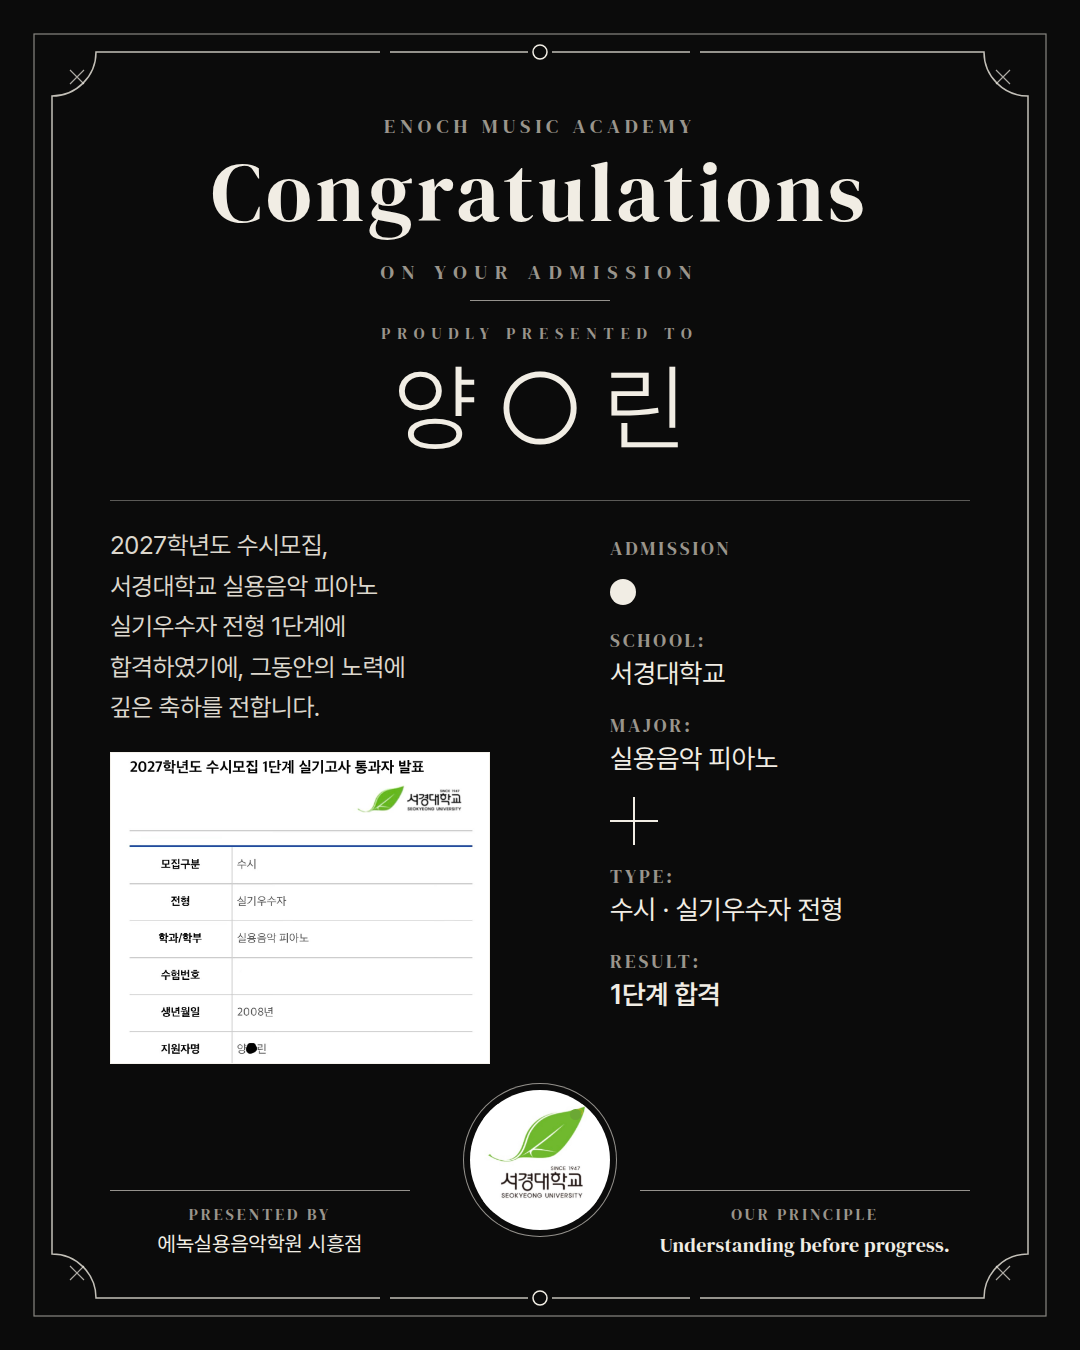
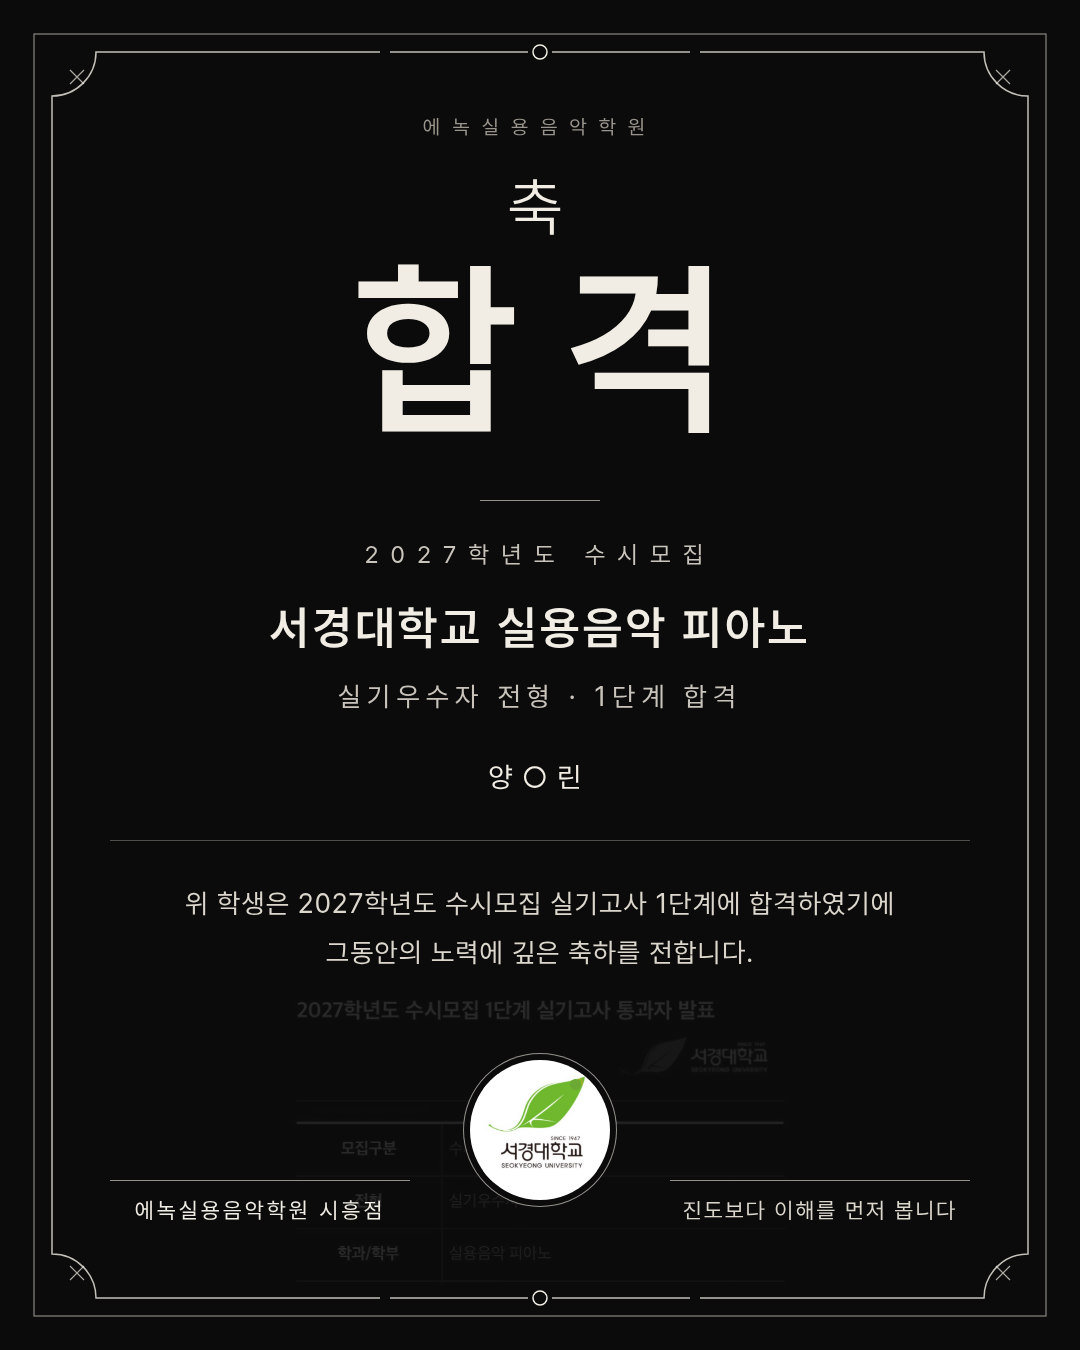
합격 포스터: 한글만, 축 합격, 이름 작게, 캡처는 로고 뒤에 희미하게
Claude-Session: https://claude.ai/code/session_01HGbZvgMeYrbU7mY8bwfjyb

diff --git a/output/합격_서경대_피아노/poster.html b/output/합격_서경대_피아노/poster.html
@@ -10,6 +10,8 @@
 .cap{font-family:DS,serif;letter-spacing:5px;font-size:20px;color:var(--g)}
 .lb{font-family:DS,serif;font-size:19px;letter-spacing:3px;color:var(--g)}
 .vv{font-size:27px;font-weight:400;margin:4px 0 22px;letter-spacing:-.3px}
+.wm{position:absolute;left:190px;top:330px;width:700px;filter:grayscale(1) invert(1);mix-blend-mode:screen;opacity:.1}
+.sm{font-size:20px;letter-spacing:6px;color:var(--g)}
 </style></head><body>
 <section class="s" id="feed" style="width:1080px;height:1350px">
 <svg class="a" style="left:0;top:0" width="1080" height="1350" viewBox="0 0 1080 1350" fill="none">
@@ -23,30 +25,21 @@
 <path d="M70 70 l14 14 m-14 0 l14 -14"/><path d="M996 70 l14 14 m-14 0 l14 -14"/><path d="M70 1266 l14 14 m-14 0 l14 -14"/><path d="M996 1266 l14 14 m-14 0 l14 -14"/>
 </g>
 </svg>
-<div class="a c cap" style="top:112px">ENOCH MUSIC ACADEMY</div>
-<div class="a c" style="top:150px;font-family:DS,serif;font-size:84px;letter-spacing:4px;line-height:1">Congratulations</div>
-<div class="a c cap" style="top:258px;letter-spacing:8px">ON YOUR ADMISSION</div>
-<div class="a" style="left:470px;width:140px;top:300px;height:1px;background:rgba(241,237,228,.6)"></div>
-<div class="a c cap" style="top:322px;font-size:16px;letter-spacing:7px">PROUDLY PRESENTED TO</div>
-<div class="a c" style="top:360px;font-weight:300;font-size:96px;letter-spacing:22px;padding-left:22px;line-height:1">양○린</div>
-<div class="a" style="left:110px;right:110px;top:500px;height:1px;background:rgba(241,237,228,.35)"></div>
-<div class="a" style="left:110px;width:430px;top:525px;font-size:25px;line-height:1.62;color:#DCD7CD;letter-spacing:-.3px">2027학년도 수시모집,<br>서경대학교 실용음악 피아노<br>실기우수자 전형 1단계에<br>합격하였기에, 그동안의 노력에<br>깊은 축하를 전합니다.</div>
-<div class="a" style="left:110px;top:752px;width:380px;height:312px;overflow:hidden;background:#fff;border:1px solid rgba(241,237,228,.7)">
-<img src="src/발표화면_가림.jpg" style="position:absolute;left:0;top:-46px;width:380px">
-</div>
-<div class="a" style="left:610px;right:110px;top:535px">
-<div class="lb">ADMISSION</div>
-<div style="width:26px;height:26px;border-radius:50%;background:#F1EDE4;margin:18px 0 22px"></div>
-<div class="lb">SCHOOL:</div><div class="vv">서경대학교</div>
-<div class="lb">MAJOR:</div><div class="vv">실용음악 피아노</div>
-<div style="width:48px;height:48px;position:relative;margin:2px 0 18px"><div style="position:absolute;left:23px;top:0;width:1.5px;height:48px;background:#F1EDE4"></div><div style="position:absolute;left:0;top:23px;width:48px;height:1.5px;background:#F1EDE4"></div></div>
-<div class="lb">TYPE:</div><div class="vv">수시 · 실기우수자 전형</div>
-<div class="lb">RESULT:</div><div class="vv" style="font-weight:600">1단계 합격</div>
-</div>
-<div class="a" style="left:470px;top:1090px;width:140px;height:140px;border-radius:50%;background:#fff;overflow:hidden;box-shadow:0 0 0 6px #0B0B0B,0 0 0 7px rgba(241,237,228,.6)">
+<div class="a" style="left:270px;top:985px;width:540px;height:300px;overflow:hidden;mix-blend-mode:screen;opacity:.12"><img src="src/발표화면_가림.jpg" style="position:absolute;left:0;top:-60px;width:540px;filter:grayscale(1) invert(1)"></div>
+<div class="a c sm" style="top:115px;letter-spacing:12px">에녹실용음악학원</div>
+<div class="a c" style="top:175px;font-weight:300;font-size:64px;letter-spacing:10px;line-height:1">축</div>
+<div class="a c" style="top:255px;font-weight:600;font-size:190px;letter-spacing:46px;padding-left:46px;line-height:1">합격</div>
+<div class="a" style="left:480px;width:120px;top:500px;height:1px;background:rgba(241,237,228,.6)"></div>
+<div class="a c sm" style="top:540px;font-size:24px;letter-spacing:12px;color:#C9C4BB">2027학년도 수시모집</div>
+<div class="a c" style="top:600px;font-size:46px;font-weight:600;letter-spacing:3px">서경대학교 실용음악 피아노</div>
+<div class="a c" style="top:680px;font-size:27px;letter-spacing:6px;color:#C9C4BB">실기우수자 전형 · 1단계 합격</div>
+<div class="a c" style="top:760px;font-size:28px;letter-spacing:10px">양○린</div>
+<div class="a" style="left:110px;right:110px;top:840px;height:1px;background:rgba(241,237,228,.3)"></div>
+<div class="a c" style="top:880px;font-size:27px;line-height:1.8;color:#DCD7CD;letter-spacing:1px">위 학생은 2027학년도 수시모집 실기고사 1단계에 합격하였기에<br>그동안의 노력에 깊은 축하를 전합니다.</div>
+<div class="a" style="left:470px;top:1060px;width:140px;height:140px;border-radius:50%;background:#fff;overflow:hidden;box-shadow:0 0 0 6px #0B0B0B,0 0 0 7px rgba(241,237,228,.6)">
 <img src="src/서경대_로고.jpg" style="position:absolute;left:13px;top:14px;width:114px">
 <div style="position:absolute;left:100px;top:19px;width:11px;height:11px;border-radius:50%;background:#6BA834"></div>
 </div>
-<div class="a" style="left:110px;width:300px;top:1190px;border-top:1px solid rgba(241,237,228,.6);padding-top:12px;text-align:center"><div class="lb" style="font-size:16px">PRESENTED BY</div><div style="font-size:21px;margin-top:6px">에녹실용음악학원 시흥점</div></div>
-<div class="a" style="right:110px;width:330px;top:1190px;border-top:1px solid rgba(241,237,228,.6);padding-top:12px;text-align:center"><div class="lb" style="font-size:16px">OUR PRINCIPLE</div><div style="font-family:DS,serif;font-size:20px;margin-top:6px;letter-spacing:.3px;white-space:nowrap">Understanding before progress.</div></div>
+<div class="a" style="left:110px;width:300px;top:1180px;border-top:1px solid rgba(241,237,228,.6);padding-top:16px;text-align:center;font-size:22px;letter-spacing:3px">에녹실용음악학원 시흥점</div>
+<div class="a" style="right:110px;width:300px;top:1180px;border-top:1px solid rgba(241,237,228,.6);padding-top:16px;text-align:center;font-size:22px;letter-spacing:2px;color:#DCD7CD">진도보다 이해를 먼저 봅니다</div>
 </section></body></html>

diff --git a/output/합격_서경대_피아노/poster_v3.html b/output/합격_서경대_피아노/poster_v3.html
@@ -1,0 +1,52 @@
+<!doctype html><html lang="ko"><head><meta charset="utf-8"><title>합격 축하 서경대 피아노</title><style>
+@font-face{font-family:P;src:url(../../templates/fonts/Pretendard-Light.woff2);font-weight:300}
+@font-face{font-family:P;src:url(../../templates/fonts/Pretendard-Regular.woff2);font-weight:400}
+@font-face{font-family:P;src:url(../../templates/fonts/Pretendard-SemiBold.woff2);font-weight:600}
+@font-face{font-family:DS;src:url(../../templates/fonts/dm-serif-display-latin-400-normal.woff2)}
+*{box-sizing:border-box;margin:0;padding:0}
+:root{--iv:#F1EDE4;--bk:#0B0B0B;--g:#9A958C}
+.s{position:relative;overflow:hidden;background:var(--bk);color:var(--iv);font-family:P,sans-serif;word-break:keep-all}
+.a{position:absolute}.c{left:0;right:0;text-align:center}
+.cap{font-family:DS,serif;letter-spacing:5px;font-size:20px;color:var(--g)}
+.lb{font-family:DS,serif;font-size:19px;letter-spacing:3px;color:var(--g)}
+.vv{font-size:27px;font-weight:400;margin:4px 0 22px;letter-spacing:-.3px}
+</style></head><body>
+<section class="s" id="feed" style="width:1080px;height:1350px">
+<svg class="a" style="left:0;top:0" width="1080" height="1350" viewBox="0 0 1080 1350" fill="none">
+<rect x="34" y="34" width="1012" height="1282" stroke="#F1EDE4" stroke-opacity=".55" stroke-width="1.2"/>
+<path d="M96 52 H984 A44 44 0 0 0 1028 96 V1254 A44 44 0 0 0 984 1298 H96 A44 44 0 0 0 52 1254 V96 A44 44 0 0 0 96 52 Z" stroke="#F1EDE4" stroke-opacity=".8" stroke-width="1.5"/>
+<line x1="380" y1="52" x2="700" y2="52" stroke="#0B0B0B" stroke-width="4"/>
+<line x1="390" y1="52" x2="528" y2="52" stroke="#F1EDE4" stroke-opacity=".8" stroke-width="1.5"/><circle cx="540" cy="52" r="7" stroke="#F1EDE4" stroke-width="1.5" fill="#0B0B0B"/><line x1="552" y1="52" x2="690" y2="52" stroke="#F1EDE4" stroke-opacity=".8" stroke-width="1.5"/>
+<line x1="380" y1="1298" x2="700" y2="1298" stroke="#0B0B0B" stroke-width="4"/>
+<line x1="390" y1="1298" x2="528" y2="1298" stroke="#F1EDE4" stroke-opacity=".8" stroke-width="1.5"/><circle cx="540" cy="1298" r="7" stroke="#F1EDE4" stroke-width="1.5" fill="#0B0B0B"/><line x1="552" y1="1298" x2="690" y2="1298" stroke="#F1EDE4" stroke-opacity=".8" stroke-width="1.5"/>
+<g stroke="#F1EDE4" stroke-opacity=".7" stroke-width="1.2">
+<path d="M70 70 l14 14 m-14 0 l14 -14"/><path d="M996 70 l14 14 m-14 0 l14 -14"/><path d="M70 1266 l14 14 m-14 0 l14 -14"/><path d="M996 1266 l14 14 m-14 0 l14 -14"/>
+</g>
+</svg>
+<div class="a c cap" style="top:112px">ENOCH MUSIC ACADEMY</div>
+<div class="a c" style="top:150px;font-family:DS,serif;font-size:84px;letter-spacing:4px;line-height:1">Congratulations</div>
+<div class="a c cap" style="top:258px;letter-spacing:8px">ON YOUR ADMISSION</div>
+<div class="a" style="left:470px;width:140px;top:300px;height:1px;background:rgba(241,237,228,.6)"></div>
+<div class="a c cap" style="top:322px;font-size:16px;letter-spacing:7px">PROUDLY PRESENTED TO</div>
+<div class="a c" style="top:360px;font-weight:300;font-size:96px;letter-spacing:22px;padding-left:22px;line-height:1">양○린</div>
+<div class="a" style="left:110px;right:110px;top:500px;height:1px;background:rgba(241,237,228,.35)"></div>
+<div class="a" style="left:110px;width:430px;top:525px;font-size:25px;line-height:1.62;color:#DCD7CD;letter-spacing:-.3px">2027학년도 수시모집,<br>서경대학교 실용음악 피아노<br>실기우수자 전형 1단계에<br>합격하였기에, 그동안의 노력에<br>깊은 축하를 전합니다.</div>
+<div class="a" style="left:110px;top:752px;width:380px;height:312px;overflow:hidden;background:#fff;border:1px solid rgba(241,237,228,.7)">
+<img src="src/발표화면_가림.jpg" style="position:absolute;left:0;top:-46px;width:380px">
+</div>
+<div class="a" style="left:610px;right:110px;top:535px">
+<div class="lb">ADMISSION</div>
+<div style="width:26px;height:26px;border-radius:50%;background:#F1EDE4;margin:18px 0 22px"></div>
+<div class="lb">SCHOOL:</div><div class="vv">서경대학교</div>
+<div class="lb">MAJOR:</div><div class="vv">실용음악 피아노</div>
+<div style="width:48px;height:48px;position:relative;margin:2px 0 18px"><div style="position:absolute;left:23px;top:0;width:1.5px;height:48px;background:#F1EDE4"></div><div style="position:absolute;left:0;top:23px;width:48px;height:1.5px;background:#F1EDE4"></div></div>
+<div class="lb">TYPE:</div><div class="vv">수시 · 실기우수자 전형</div>
+<div class="lb">RESULT:</div><div class="vv" style="font-weight:600">1단계 합격</div>
+</div>
+<div class="a" style="left:470px;top:1090px;width:140px;height:140px;border-radius:50%;background:#fff;overflow:hidden;box-shadow:0 0 0 6px #0B0B0B,0 0 0 7px rgba(241,237,228,.6)">
+<img src="src/서경대_로고.jpg" style="position:absolute;left:13px;top:14px;width:114px">
+<div style="position:absolute;left:100px;top:19px;width:11px;height:11px;border-radius:50%;background:#6BA834"></div>
+</div>
+<div class="a" style="left:110px;width:300px;top:1190px;border-top:1px solid rgba(241,237,228,.6);padding-top:12px;text-align:center"><div class="lb" style="font-size:16px">PRESENTED BY</div><div style="font-size:21px;margin-top:6px">에녹실용음악학원 시흥점</div></div>
+<div class="a" style="right:110px;width:330px;top:1190px;border-top:1px solid rgba(241,237,228,.6);padding-top:12px;text-align:center"><div class="lb" style="font-size:16px">OUR PRINCIPLE</div><div style="font-family:DS,serif;font-size:20px;margin-top:6px;letter-spacing:.3px;white-space:nowrap">Understanding before progress.</div></div>
+</section></body></html>

diff --git a/CLAUDE.md b/CLAUDE.md
@@ -103,10 +103,14 @@
   - 글자 위에 겹치지 않게, 한 장에 1–3개. 도구: `scripts/doodles.mjs` (`templates/SLIDES_SCHEMA.md` 두들 항목)
 
 ### 합격자 포스터 (2026-10-21 원장님 결정)
-- 신빙성을 위해 학교 로고와 합격 발표 화면 캡처를 반드시 넣는다. 꼬리말 오른쪽에는 과목 대신 영문 원칙 한 문장을 넣는다 (예: Understanding before progress.). 기준: `output/합격_서경대_피아노/poster.html` (1080×1350, 증서 + 초대장 결합형: 블랙 바탕, 오목한 모서리의 이중 테두리, 위 가운데 Congratulations(DM Serif) · ON YOUR ADMISSION · PROUDLY PRESENTED TO · 이름, 아래 두 단(왼쪽 축하 문장 + 캡처 / 오른쪽 SCHOOL · MAJOR · TYPE · RESULT 라벨), 맨 아래 가운데 흰 원 안 학교 로고(인장 자리) + 양쪽 서명선 PRESENTED BY 에녹실용음악학원 시흥점 / OUR PRINCIPLE 영문 원칙). 매거진형은 쓰지 않는다 (2026-10-21).
+- 신빙성을 위해 학교 로고와 합격 발표 화면 캡처를 넣는다. 기준: `output/합격_서경대_피아노/poster.html` (1080×1350 증서형, 영어 없이 한글만)
+  - 블랙 바탕, 오목한 모서리의 이중 테두리, 가운데 정렬
+  - 위에서부터: 에녹실용음악학원 → "축" → 큰 "합격" → 학년도·모집 → 학교·전공 → 전형·결과 → 이름(작게) → 축하 문장
+  - 맨 아래 가운데 흰 원 안 학교 로고(인장 자리). 캡처는 로고 뒤에 희미하게 깐다(흑백 반전, 투명도 약 12%).
+  - 양쪽 서명선: 왼쪽 "에녹실용음악학원 시흥점", 오른쪽 원칙 한 문장 (예: 진도보다 이해를 먼저 봅니다)
 - 캡처의 개인정보는 가린다: 이름 가운데 글자(표와 본문 문장 모두), 수험번호. 저장소에는 가린 캡처만 저장하고 원본은 올리지 않는다.
-- 이름은 "양○린"처럼 가운데 글자를 가려 쓴다. 게시 전 학생 본인(또는 보호자) 동의를 받는다.
-- 1단계 합격과 최종 합격을 분명히 구분해 적는다 ("1단계 합격", "1ST ROUND" / "최종 합격").
+- 이름은 "양○린"처럼 가운데 글자를 가려 작게 쓴다. 게시 전 학생 본인(또는 보호자) 동의를 받는다.
+- 1단계 합격과 최종 합격을 분명히 구분해 적는다 ("1단계 합격" / "최종 합격").
 - 로고 이미지에 붙은 아이콘이나 배경은 정리하되 로고 자체는 바꾸지 않는다.
 
 ## 6. 팀 구성과 작업 순서
